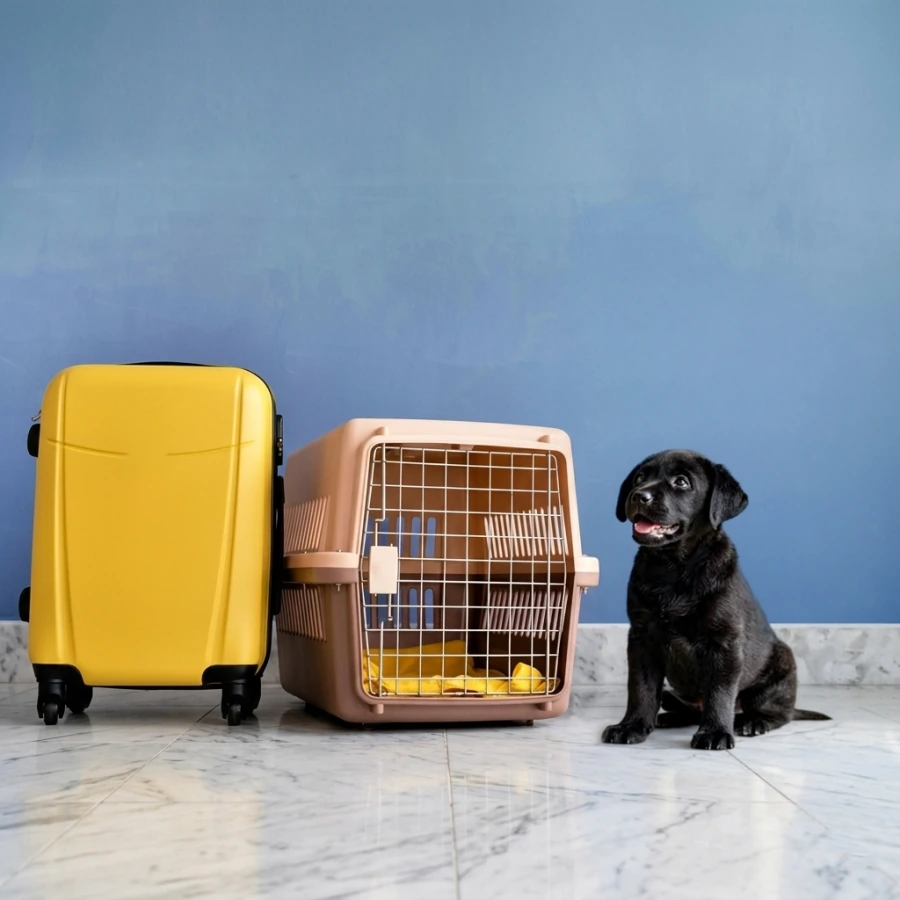
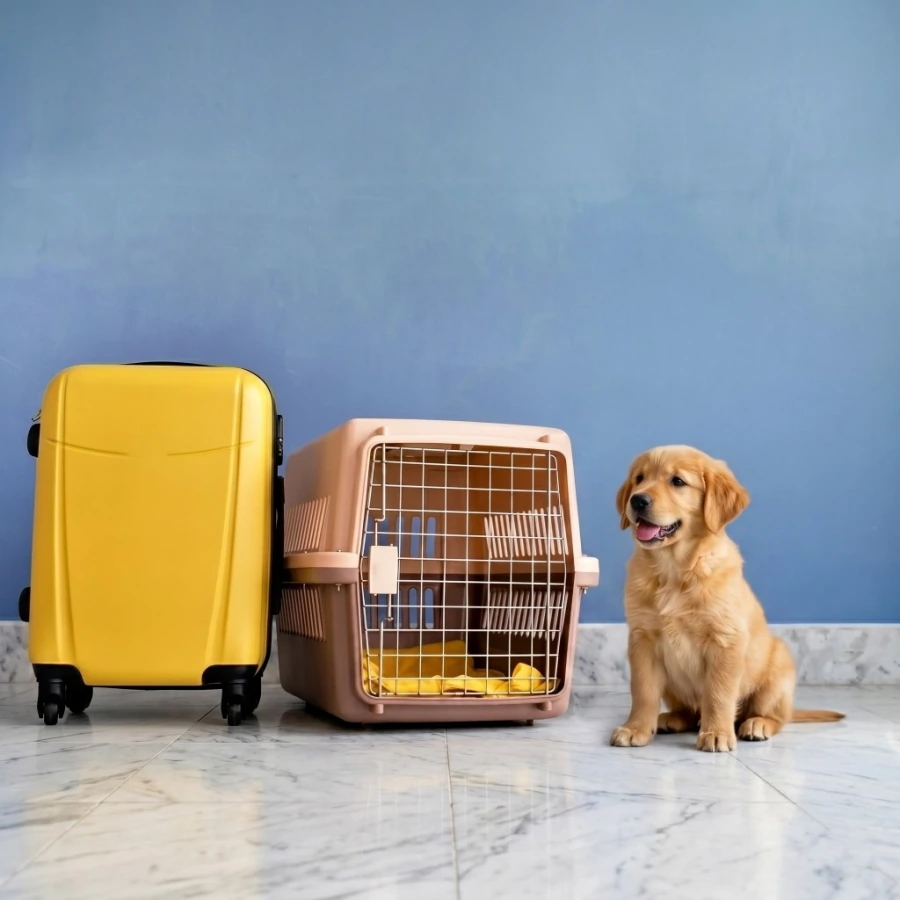
Update CTA collage pet image
Swap the collage pet relocation photo and cache-bust the asset URL while preserving the existing crop.

Changed region(s): [[0.6533, 0.4667, 0.9333, 0.84], [0.5911, 0.6844, 0.6222, 0.7156], [0.4044, 0.7467, 0.4356, 0.7778]]

diff --git a/Website/services-business-infrastructure.html b/Website/services-business-infrastructure.html
@@ -260,7 +260,7 @@
             </div>
             <div class="collage__stack">
               <div class="collage__img">
-                <img class="collage__pet" src="assets/photos/pet-relocation-collage.webp" alt="Pet relocation services">
+                <img class="collage__pet" src="assets/photos/pet-relocation-collage.webp?v=2" alt="Pet relocation services">
               </div>
               <div class="collage__img">
                 <img src="assets/photos/containers-collage.webp" alt="Container logistics">

diff --git a/Website/services-mobility-relocation.html b/Website/services-mobility-relocation.html
@@ -276,7 +276,7 @@
             </div>
             <div class="collage__stack">
               <div class="collage__img">
-                <img class="collage__pet" src="assets/photos/pet-relocation-collage.webp" alt="Pet relocation services">
+                <img class="collage__pet" src="assets/photos/pet-relocation-collage.webp?v=2" alt="Pet relocation services">
               </div>
               <div class="collage__img">
                 <img src="assets/photos/containers-collage.webp" alt="Container logistics">

diff --git a/Website/services-specialised-logistics.html b/Website/services-specialised-logistics.html
@@ -273,7 +273,7 @@
             </div>
             <div class="collage__stack">
               <div class="collage__img">
-                <img class="collage__pet" src="assets/photos/pet-relocation-collage.webp" alt="Pet relocation services">
+                <img class="collage__pet" src="assets/photos/pet-relocation-collage.webp?v=2" alt="Pet relocation services">
               </div>
               <div class="collage__img">
                 <img src="assets/photos/containers-collage.webp" alt="Container logistics">

diff --git a/Website/about.html b/Website/about.html
@@ -222,7 +222,7 @@
             </div>
             <div class="collage__stack">
               <div class="collage__img">
-                <img class="collage__pet" src="assets/photos/pet-relocation-collage.webp" alt="Pet relocation services">
+                <img class="collage__pet" src="assets/photos/pet-relocation-collage.webp?v=2" alt="Pet relocation services">
               </div>
               <div class="collage__img">
                 <img src="assets/photos/containers-collage.webp" alt="Fine art logistics">

diff --git a/Website/contact.html b/Website/contact.html
@@ -235,7 +235,7 @@
             </div>
             <div class="collage__stack">
               <div class="collage__img">
-                <img class="collage__pet" src="assets/photos/pet-relocation-collage.webp" alt="Pet relocation services">
+                <img class="collage__pet" src="assets/photos/pet-relocation-collage.webp?v=2" alt="Pet relocation services">
               </div>
               <div class="collage__img">
                 <img src="assets/photos/containers-collage.webp" alt="Fine art logistics">

diff --git a/Website/global-network.html b/Website/global-network.html
@@ -224,7 +224,7 @@
             </div>
             <div class="collage__stack">
               <div class="collage__img">
-                <img class="collage__pet" src="assets/photos/pet-relocation-collage.webp" alt="Pet relocation services">
+                <img class="collage__pet" src="assets/photos/pet-relocation-collage.webp?v=2" alt="Pet relocation services">
               </div>
               <div class="collage__img">
                 <img src="assets/photos/containers-collage.webp" alt="Fine art logistics">

diff --git a/Website/index.html b/Website/index.html
@@ -246,7 +246,7 @@
             </div>
             <div class="collage__stack">
               <div class="collage__img">
-                <img class="collage__pet" src="assets/photos/pet-relocation-collage.webp" alt="Pet relocation services">
+                <img class="collage__pet" src="assets/photos/pet-relocation-collage.webp?v=2" alt="Pet relocation services">
               </div>
               <div class="collage__img">
                 <img src="assets/photos/containers-collage.webp" alt="Fine art logistics">
